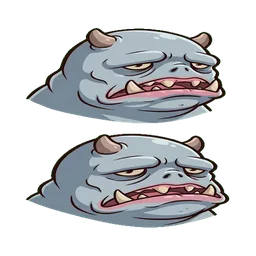
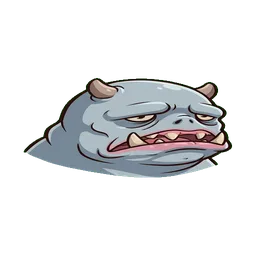
fix(art): unstack double head generations and strip top label for horned devil & dretch

diff --git a/art/process.py b/art/process.py
@@ -213,6 +213,86 @@ def strip_specks(im):
     return out, len(doomed)
 
 
+def crop_stacked_portrait(im):
+    """If a portrait source image contains two vertically stacked heads
+    separated by a clear horizontal gap in the middle, crop to the top single head.
+    """
+    w, h = im.size
+    a = im.split()[3].load()
+    row_counts = [sum(1 for x in range(w) if a[x, y] > 40) for y in range(h)]
+    
+    # Find local minimum gap in y=160..320
+    min_y = None
+    min_count = w
+    for y in range(160, 320):
+        if row_counts[y] < min_count:
+            min_count = row_counts[y]
+            min_y = y
+            
+    # Check if this minimum is a clear waist/gap between two heads
+    if min_y and min_count < w * 0.35:
+        ink_above = sum(1 for yy in range(40, min_y) if row_counts[yy] > 20)
+        ink_below = sum(1 for yy in range(min_y + 10, h - 30) if row_counts[yy] > 20)
+        if ink_above > 60 and ink_below > 60:
+            # Crop to top figure
+            top_crop = im.crop((0, 0, w, min_y))
+            tb = ink_bbox(top_crop)
+            if tb:
+                # If top crop contains "PORTRAIT:" label in top 50px, crop below label
+                if tb[1] < 50 and (tb[3] - tb[1]) > 100:
+                    top_rows = [sum(1 for x in range(w) if a[x, y] > 40) for y in range(min_y)]
+                    label_gap = None
+                    for y in range(20, 60):
+                        if top_rows[y] < w * 0.10:
+                            label_gap = y
+                            break
+                    if label_gap:
+                        top_crop = top_crop.crop((0, label_gap, w, min_y))
+            
+            tb_final = ink_bbox(top_crop)
+            if tb_final:
+                cropped_head = top_crop.crop(tb_final)
+                out = Image.new("RGBA", (w, h), (0, 0, 0, 0))
+                cw, ch = cropped_head.size
+                out.paste(cropped_head, ((w - cw) // 2, (h - ch) // 2), cropped_head)
+                return out, True
+    return im, False
+
+
+
+def strip_top_caption(im):
+    """Remove a baked-in top caption row ("PORTRAIT:" / "TOKEN:") at the top of the canvas."""
+    w, h = im.size
+    a = im.split()[3].load()
+    noise = max(2, int(w * CAPTION_NOISE_ROW))
+    rows = [sum(1 for x in range(w) if a[x, y] > 40) > noise for y in range(h)]
+    if not any(rows[:int(h * 0.20)]):
+        return im, 0
+    try:
+        first = min(y for y in range(int(h * 0.20)) if rows[y])
+    except ValueError:
+        return im, 0
+    y = first
+    while y < int(h * 0.20) and rows[y]:
+        y += 1
+    run_bot = y - 1
+    band_h = run_bot - first + 1
+    if band_h > h * CAPTION_MAX_HEIGHT or band_h < h * CAPTION_MIN_HEIGHT:
+        return im, 0
+    gap = 0
+    while y < int(h * 0.5) and not rows[y]:
+        gap += 1
+        y += 1
+    if gap < CAPTION_MIN_GAP:
+        return im, 0
+    out = im.copy()
+    px = out.load()
+    for yy in range(first, run_bot + 1):
+        for xx in range(w):
+            px[xx, yy] = (0, 0, 0, 0)
+    return out, run_bot - first + 1
+
+
 def strip_caption(im):
     """Remove a baked-in caption row ("TOKEN" / "PORTRAIT") left by slicing.
 
@@ -367,15 +447,22 @@ reframed = []
 despeckled = []
 captioned = []
 
+unstacked = []
+
 for kind, bucket in (("token", have_token), ("portrait", have_portrait)):
     for cid in IDS:
         src = os.path.join(SRC, f"{kind}-{cid}.png")
         if not os.path.exists(src):
             continue
         im = Image.open(src).convert("RGBA")
+        if kind == "portrait":
+            im, was_stacked = crop_stacked_portrait(im)
+            if was_stacked:
+                unstacked.append(f"{kind}-{cid}")
+        im, top_cap = strip_top_caption(im)
         im, caption = strip_caption(im)
-        if caption:
-            captioned.append(f"{kind}-{cid} ({caption}px)")
+        if caption or top_cap:
+            captioned.append(f"{kind}-{cid} ({caption or top_cap}px)")
         # Curtains run for everything. A keying hairline is invisible against
         # the old dark board but shows as a vertical seam the moment a token
         # is composited on anything lighter — the landing page's arena line-up
